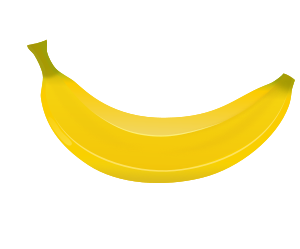
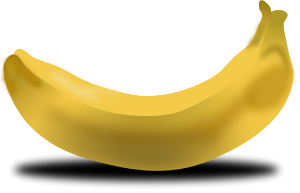
Tried a variety of fruit - set on banana (for now)

diff --git a/index.html b/index.html
@@ -277,7 +277,7 @@
                     };
 
                     // Positionning the pacgums
-                    var pacgum = new $.gameQuery.Animation({imageURL: "images/apple-small.png"});
+                    var pacgum = new $.gameQuery.Animation({imageURL: "images/banana-small.png"});
                     var coffee = new $.gameQuery.Animation({imageURL: "images/coffeecup-small.png"});
 
                     for (var j=0; j < tileNbY ; j+=1)
@@ -287,6 +287,8 @@
                             if (map[j][i] == 3 && ((i+j)%3==0))
                             {
                                 if (Math.random()>0.8){
+                                    // Width and height must be those of the image
+                                    // Pox and posy must reflect the image size as well
                                     $("#pacgums").addSprite("coffee-"+i+"_"+j, {
                                         animation: coffee,
                                         posx: (i+1/2)*tileW-25/2, 
@@ -297,12 +299,14 @@
                                 }
                                 else
                                 {
+                                    // Width and height must be those of the image
+                                    // Pox and posy must reflect the image size as well
                                     $("#pacgums").addSprite("pacgum-"+i+"_"+j, {
                                         animation: pacgum,
-                                        posx: (i+1/2)*tileW-20/2, 
-                                        posy: (j+1/2)*tileH-20/2,
-                                        width: 20,
-                                        height: 20
+                                        posx: (i+1/2)*tileW-25/2, 
+                                        posy: (j+1/2)*tileH-16/2,
+                                        width: 25,
+                                        height: 16
                                     });
                                 }
                             }
@@ -396,7 +400,7 @@
                         //console.log('Moving from:'+this.node.x()+','+this.node.y()+' to '+newx+','+newy);
 
                         if(newx >= 0 && newx <= PLAYGROUND_WIDTH && newx != this.node.x()){
-                            if (!player.collision('#tilemap,#tilemap div.gQ_tileType_1',{x:newx}).length)
+                            if (player.collision('#tilemap,#tilemap div.gQ_tileType_2',{x:newx}).length)
                             {
                                 //console.log('Moving to tile:'+$('#player').collision('#tilemap,#tilemap div.gQ_tileType_2',{x:newx})[0].id+' ('+$('#player').collision('#tilemap,#tilemap div',{x:newx}).length+' tiles detected)');
 
@@ -419,7 +423,7 @@
                             }
                         }
                         if (newy >= 0 && newy <= PLAYGROUND_HEIGHT && newy != this.node.y()){
-                            if (!player.collision('#tilemap,#tilemap div.gQ_tileType_1',{y:newy}).length)
+                            if (player.collision('#tilemap,#tilemap div.gQ_tileType_2',{y:newy}).length)
                             {
                                 //console.log('Moving to tile:'+$('#player').collision('#tilemap,#tilemap div.gQ_tileType_2',{y:newy})[0].id+' ('+$('#player').collision('#tilemap,#tilemap div',{y:newy}).length+' tiles detected)');
 
